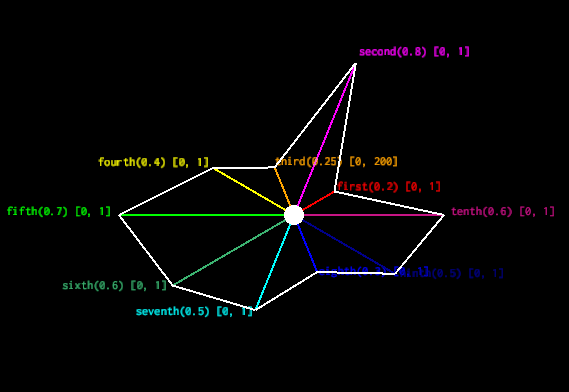
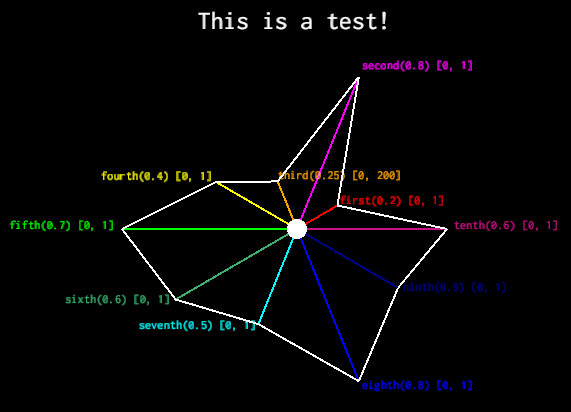
add title (alignments not implemented)

diff --git a/src/app.rs b/src/app.rs
@@ -30,7 +30,8 @@ pub struct App {
     _img: RgbImage, // RGB image
     gl: GlGraphics, // OpenGL drawing backend
     star: Starplot,  // Starplot
-    background: types::Color
+    background: types::Color, // Application background
+    title: String // Title of the Visualization
 }
 
 ////////////////////////////////////////////////////////////////////////////////
@@ -41,12 +42,16 @@ impl App {
 
     /// Creates a new App instance
     pub fn new(img: RgbImage, gl: GlGraphics) -> App {
-        App {_img: img,gl: gl, star: Starplot::new(), background: WHITE }
+        App {_img: img,gl: gl, star: Starplot::new(), background: WHITE, title: String::default() }
     }
 
     /// Defines the Starplot configuration for the visualization
     pub fn def_star(&mut self, star: Starplot) {
         self.star = star;
+    }
+
+    pub fn title(&mut self, title: String) {
+        self.title = title;
     }
 
     /// Get the contours of the Starplot dimensions
@@ -139,15 +144,25 @@ impl App {
         // get the CharacterCache that describes the used font properties
         let mut glyph = GlyphCache::new(font_path).unwrap();
         
+        // clone background Color of App
         let background: types::Color = self.background.clone();
+
+        // clone title of App
+        let title: String = self.title.clone();
+
         self.gl.draw(args.viewport(), |c, gl| {
             // clear the window
             clear(background, gl);                 
             
+            // specify position of title and draw it
+            let transform = c.transform.trans(TITLE_POS, MARGIN);
+            Text::new_color(star.color, 20).draw(&*title, &mut glyph, &c.draw_state, transform, gl);
+
             // draw dimensions and labels
             for dim in star.dimensions.iter() {
                 Line::new(dim.color, 1.0).draw([dim.i_point[0], dim.i_point[1], dim.f_point[0], dim.f_point[1]], &c.draw_state, c.transform, gl);
 
+                // specify position of each label and draw it
                 let transform = c.transform.trans(dim.label.pos[0], dim.label.pos[1]); 
                 Text::new_color(dim.color, 10).draw(&*dim.label.description, &mut glyph, &c.draw_state, transform, gl);                
             }

diff --git a/src/bin/main.rs b/src/bin/main.rs
@@ -49,7 +49,7 @@ fn main() {
     starplot.add_dim(0.7, [0.0, 1.0], "fifth", colors::GREEN);
     starplot.add_dim(0.6, [0.0, 1.0], "sixth", colors::SEA_GREEN);
     starplot.add_dim(0.5, [0.0, 1.0], "seventh", colors::CYAN);
-    starplot.add_dim(0.3, [0.0, 1.0], "eighth", colors::BLUE);
+    starplot.add_dim(0.8, [0.0, 1.0], "eighth", colors::BLUE);
     starplot.add_dim(0.5, [0.0, 1.0], "ninth", colors::DARK_BLUE);
     starplot.add_dim(0.6, [0.0, 1.0], "tenth", colors::VIOLET);
 
@@ -57,6 +57,9 @@ fn main() {
     let mut app = App::new( RgbImage::new(consts::WINDOW_WIDTH as u32, consts::WINDOW_HEIGHT as u32), 
                             GlGraphics::new(opengl) );
     app.def_star(starplot);
+
+    // Specify title
+    app.title("This is a test!".to_string());
 
     // Preprocessing
     app.preproc();

diff --git a/src/consts.rs b/src/consts.rs
@@ -23,3 +23,6 @@ pub const STARPLOT_POS_X: f64 = (WINDOW_WIDTH/2.0) - (STARPLOT_SIZE/2.0);
 
 // Standard Starplot y-position
 pub const STARPLOT_POS_Y: f64 = (WINDOW_HEIGHT/2.0) - (STARPLOT_SIZE/2.0);
+
+// Title position
+pub const TITLE_POS: f64 = WINDOW_HEIGHT*0.4;
